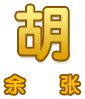
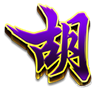
胡牌提示界面

diff --git a/Mahjong/Classes/mahjong/gameview/widget/HuPaiHintLayer.cpp b/Mahjong/Classes/mahjong/gameview/widget/HuPaiHintLayer.cpp
@@ -31,13 +31,13 @@ bool HuPaiHintLayer::init(HeroHuPaiData heroHu,PlayerHero* playerHero){
     }
     //开始绘制听牌提示界面
     auto huBg = ui::Scale9Sprite::create("gameview/hu_hint_bg.png");
-    huBg->setContentSize(Size(100+heroHu.data.size()*72+(heroHu.data.size()==1?40:0),172));
+    huBg->setContentSize(Size(102+heroHu.data.size()*72+(heroHu.data.size()==1?20:0),152));
     huBg->setPosition(640,380);
     addChild(huBg);
     
     auto huText = Sprite::create("gameview/hu_pai_text.png");
     huText->setAnchorPoint(Point::ANCHOR_MIDDLE_LEFT);
-    huText->setPosition(640-(85+heroHu.data.size()*70)/2+5,380);
+    huText->setPosition(640-(102+heroHu.data.size()*70)/2,392);
     addChild(huText);
     
 
@@ -48,13 +48,17 @@ bool HuPaiHintLayer::init(HeroHuPaiData heroHu,PlayerHero* playerHero){
         jong->setScale(0.7f);
         huBg->setAnchorPoint(Point::ANCHOR_MIDDLE);
         jong->showJong(herohand, atoi(heroHu.data.at(j).poker.c_str()));
-        jong->setPosition(640-(85+heroHu.data.size()*70)/2+120+70*j,380);
+        jong->setPosition(640-(102+heroHu.data.size()*70)/2+130+70*j,392);
         addChild(jong);
         
         auto huNum = LabelAtlas::create(StringUtils::format("%s",heroHu.data.at(j).num.c_str()),"gameview/hu_pai_num.png", 16, 24, '0');
         huNum->setAnchorPoint(Point::ANCHOR_MIDDLE);
-        huNum->setPosition(640-(85+heroHu.data.size()*70)/2+120+70*j,345);
+        huNum->setPosition(640-(102+heroHu.data.size()*70)/2+120+70*j,332);
         addChild(huNum);
+        
+        auto zhang = Sprite::create("gameview/hu_pai_text2.png");
+        zhang->setPosition(640-(102+heroHu.data.size()*70)/2+140+70*j,332);
+        addChild(zhang);
     }
     
     return true;
